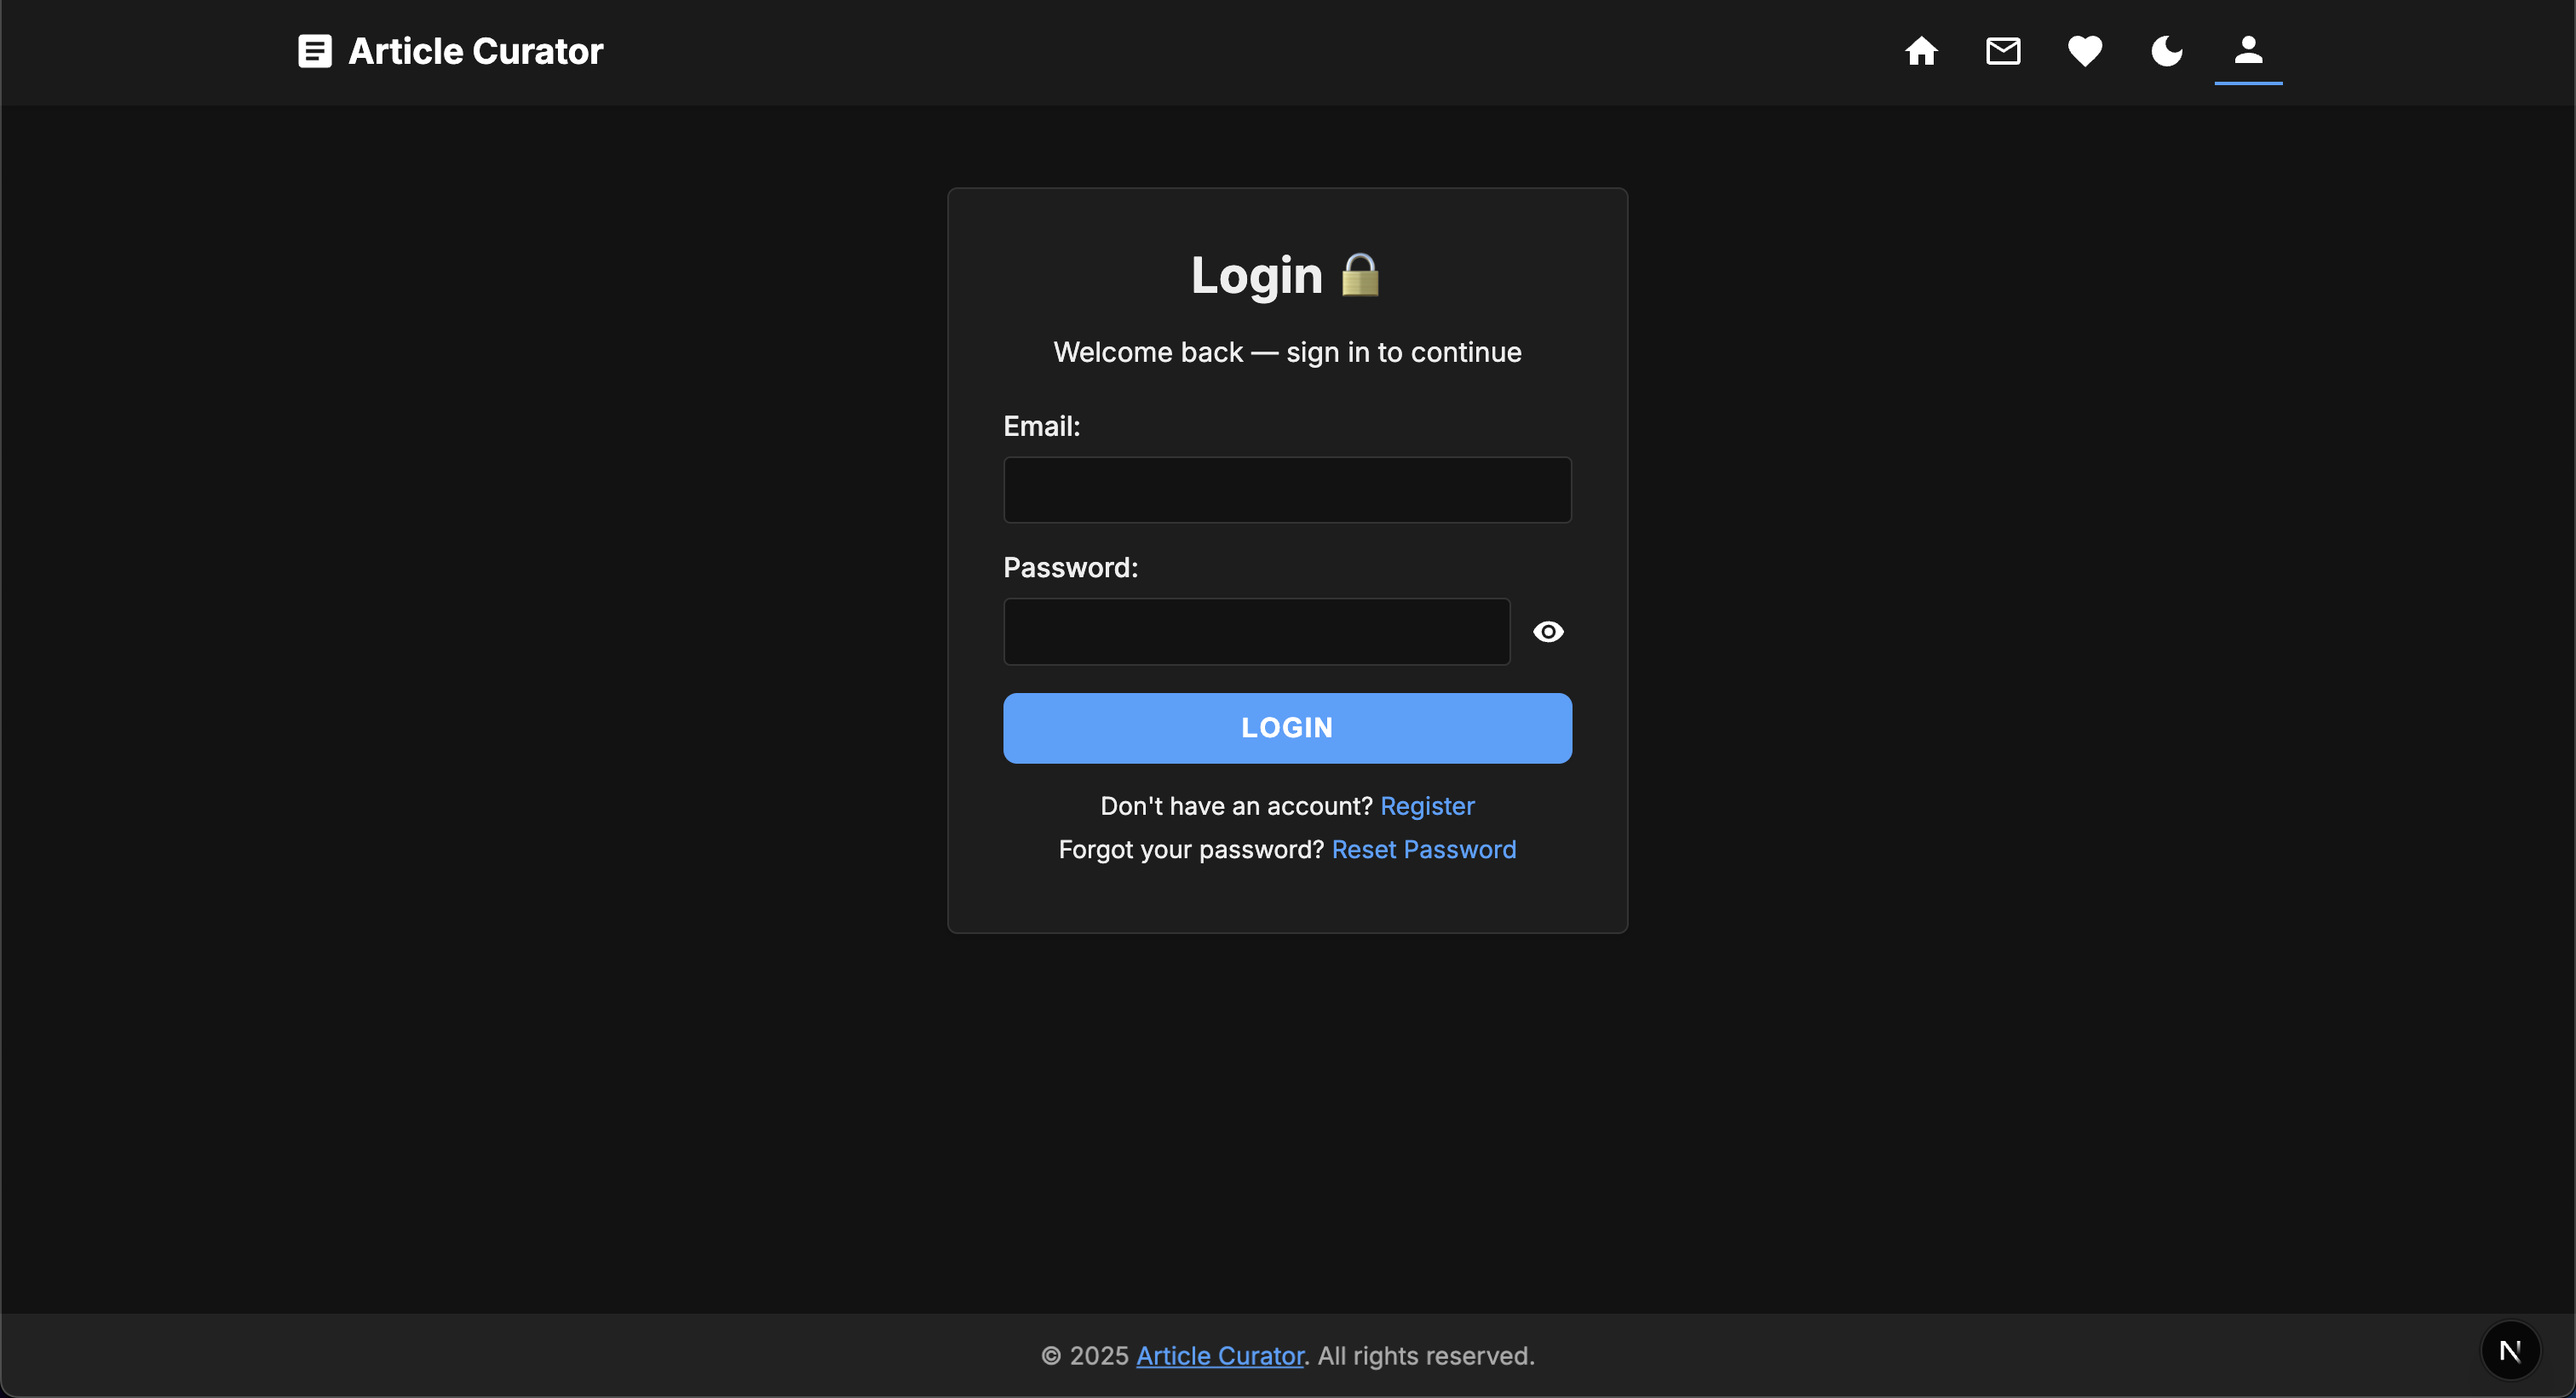
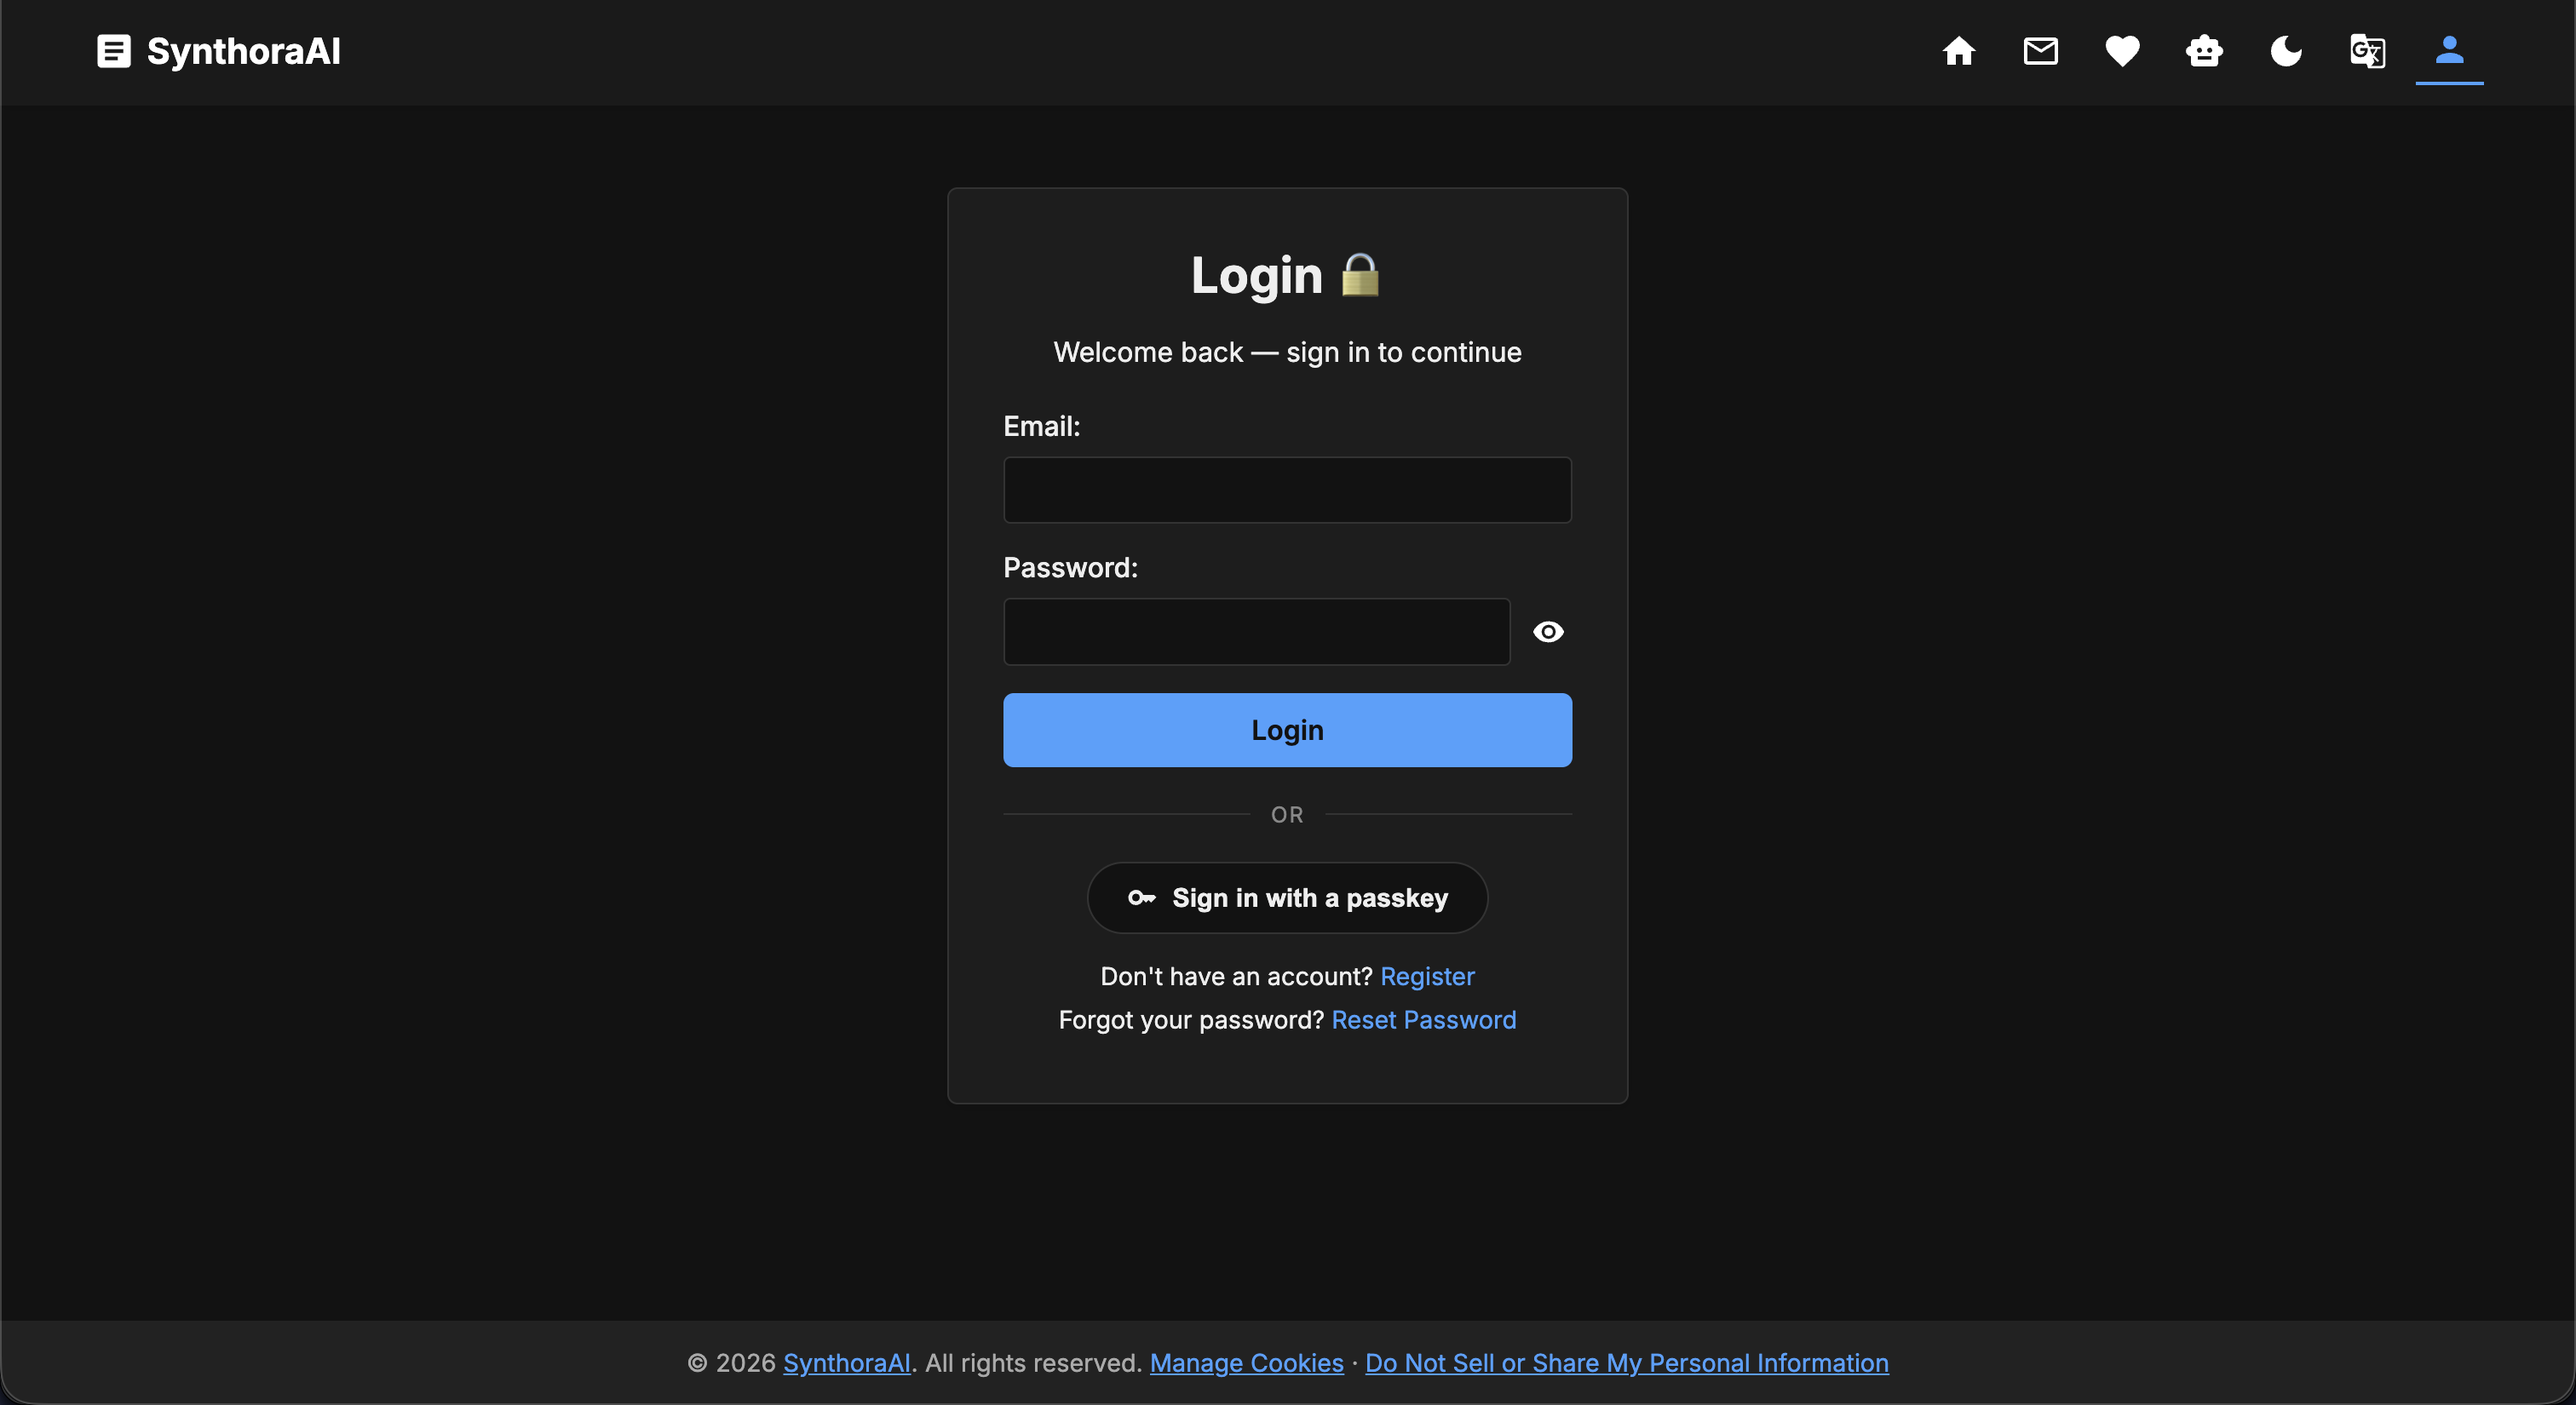
feat(passkey): update footer and reset password messages for improved clarity

diff --git a/frontend/pages/auth/reset-password.tsx b/frontend/pages/auth/reset-password.tsx
@@ -28,13 +28,13 @@ export default function ResetPassword() {
       const data = await requestPasswordReset(email);
       setResetToken(data.resetToken || "");
       setMessage("");
-      toast("Reset token sent successfully 🚀");
+      toast("You have been verified 🚀");
       setStep(2);
     } catch (err) {
       setError(
         err instanceof Error ? err.message : "An unknown error occurred.",
       );
-      toast("Could not send reset token. Please try again.");
+      toast("Could not verify email. Please try again.");
     }
   };
 
@@ -51,7 +51,7 @@ export default function ResetPassword() {
     try {
       await confirmPasswordReset(email, resetToken, newPassword);
       setMessage("Password reset successfully. Redirecting to login...");
-      toast("Reset token sent successfully 🎉");
+      toast("Password reset successfully. Redirecting to login...");
       setTimeout(() => router.push("/auth/login"), 2000);
     } catch (err) {
       setError(
@@ -89,7 +89,7 @@ export default function ResetPassword() {
               />
             </div>
             <button type="submit" className="btn submit-btn">
-              Send Reset Token
+              Verify Email
             </button>
           </form>
         )}

diff --git a/frontend/components/Footer.tsx b/frontend/components/Footer.tsx
@@ -19,14 +19,6 @@ export default function Footer() {
         <button className="footer-manage-cookies" onClick={openPreferences}>
           Manage Cookies
         </button>
-        {region === "optout" && (
-          <>
-            {" · "}
-            <button className="footer-manage-cookies" onClick={openPreferences}>
-              Do Not Sell or Share My Personal Information
-            </button>
-          </>
-        )}
       </p>
     </footer>
   );

diff --git a/README.md b/README.md
@@ -403,6 +403,12 @@ Below are some screenshots of the application (some screenshots may be outdated 
   <img src="frontend/img/newsletter-example.png" alt="Daily Newsletter Example" width="100%">
 </p>
 
+### 12. Passkey Management Page
+
+<p align="center">
+  <img src="frontend/img/passkeys.png" alt="Passkey Management Page" width="100%">
+</p>
+
 _more pages and features are available in the app - we encourage you to explore!_
 
 ---
